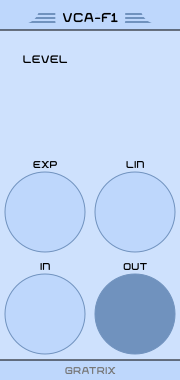
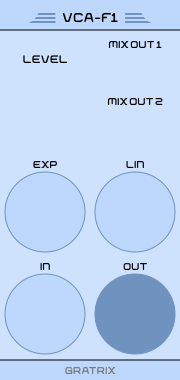
Improve the UI of VCA-F1 given recent mixer change.

Changed region(s): [[0.6111, 0.0868, 0.8056, 0.1447], [0.5833, 0.2605, 0.9167, 0.2895], [0.8056, 0.0868, 0.8889, 0.1447]]

diff --git a/src/VCA.cpp b/src/VCA.cpp
@@ -108,6 +108,9 @@ VCAWidget::VCAWidget()
 
 		pg.nob_big(0, 0, "LEVEL");
 
+		pg.nob_med(1, -0.28, "MIX OUT 1");
+		pg.nob_med(1, +0.28, "MIX OUT 2");
+
 		pg.bus_in (0, 1, "EXP"); pg.bus_in (1, 1, "LIN");
 		pg.bus_in (0, 2, "IN");  pg.bus_out(1, 2, "OUT");
 	}
@@ -131,25 +134,12 @@ VCAWidget::VCAWidget()
 	addChild(createScrew<ScrewSilver>(Vec(15, 365)));
 	addChild(createScrew<ScrewSilver>(Vec(box.size.x-30, 365)));
 
-	int r7 = 103;
+	addParam(createParam<RoundHugeBlackKnob>(n_b(fx(0),      fy(0)),     module, VCA::LEVEL_PARAM, 0.0, 1.0, 0.5));
+	addParam(createParam<RoundBlackKnob>    (n_m(fx(1+0.18), fy(-0.28)), module, VCA::MIX_1_PARAM, 0.0, 1.0, 0.5));
+	addParam(createParam<RoundBlackKnob>    (n_m(fx(1+0.18), fy(+0.28)), module, VCA::MIX_2_PARAM, 0.0, 1.0, 0.5));
 
-	int d3, d4;
-	{
-		int size = 36;
-		int gap  = (box.size.x - 4 * size) / 6;
-		int span = gap + size;
-		d3 = box.size.x - 2 * span;
-		d4 = box.size.x - 1 * span;
-	}
-
-	addParam(createParam<RoundHugeBlackKnob>(n_b(fx(0), fy(0)), module, VCA::LEVEL_PARAM, 0.0, 1.0, 0.5));
-
-	// Mixer
-	addParam(createParam<RoundBlackKnob>(Vec(d3, r7 - 42), module, VCA::MIX_1_PARAM, 0.0, 1.0, 0.5));
-	addParam(createParam<RoundBlackKnob>(Vec(d4, r7 - 42), module, VCA::MIX_2_PARAM, 0.0, 1.0, 0.5));
-
-	addOutput(createOutput<PJ301MPort>(prt(px(1, 4)-3, py(0, 2)), module, VCA::MIX_1_OUTPUT));
-	addOutput(createOutput<PJ301MPort>(prt(px(1, 0)  , py(0, 2)), module, VCA::MIX_2_OUTPUT));
+	addOutput(createOutput<PJ301MPort>(prt(fx(1-0.28), fy(-0.28)), module, VCA::MIX_1_OUTPUT));
+	addOutput(createOutput<PJ301MPort>(prt(fx(1-0.28), fy(+0.28)), module, VCA::MIX_2_OUTPUT));
 
 	for (std::size_t i=0; i<GTX__N; ++i)
 	{
